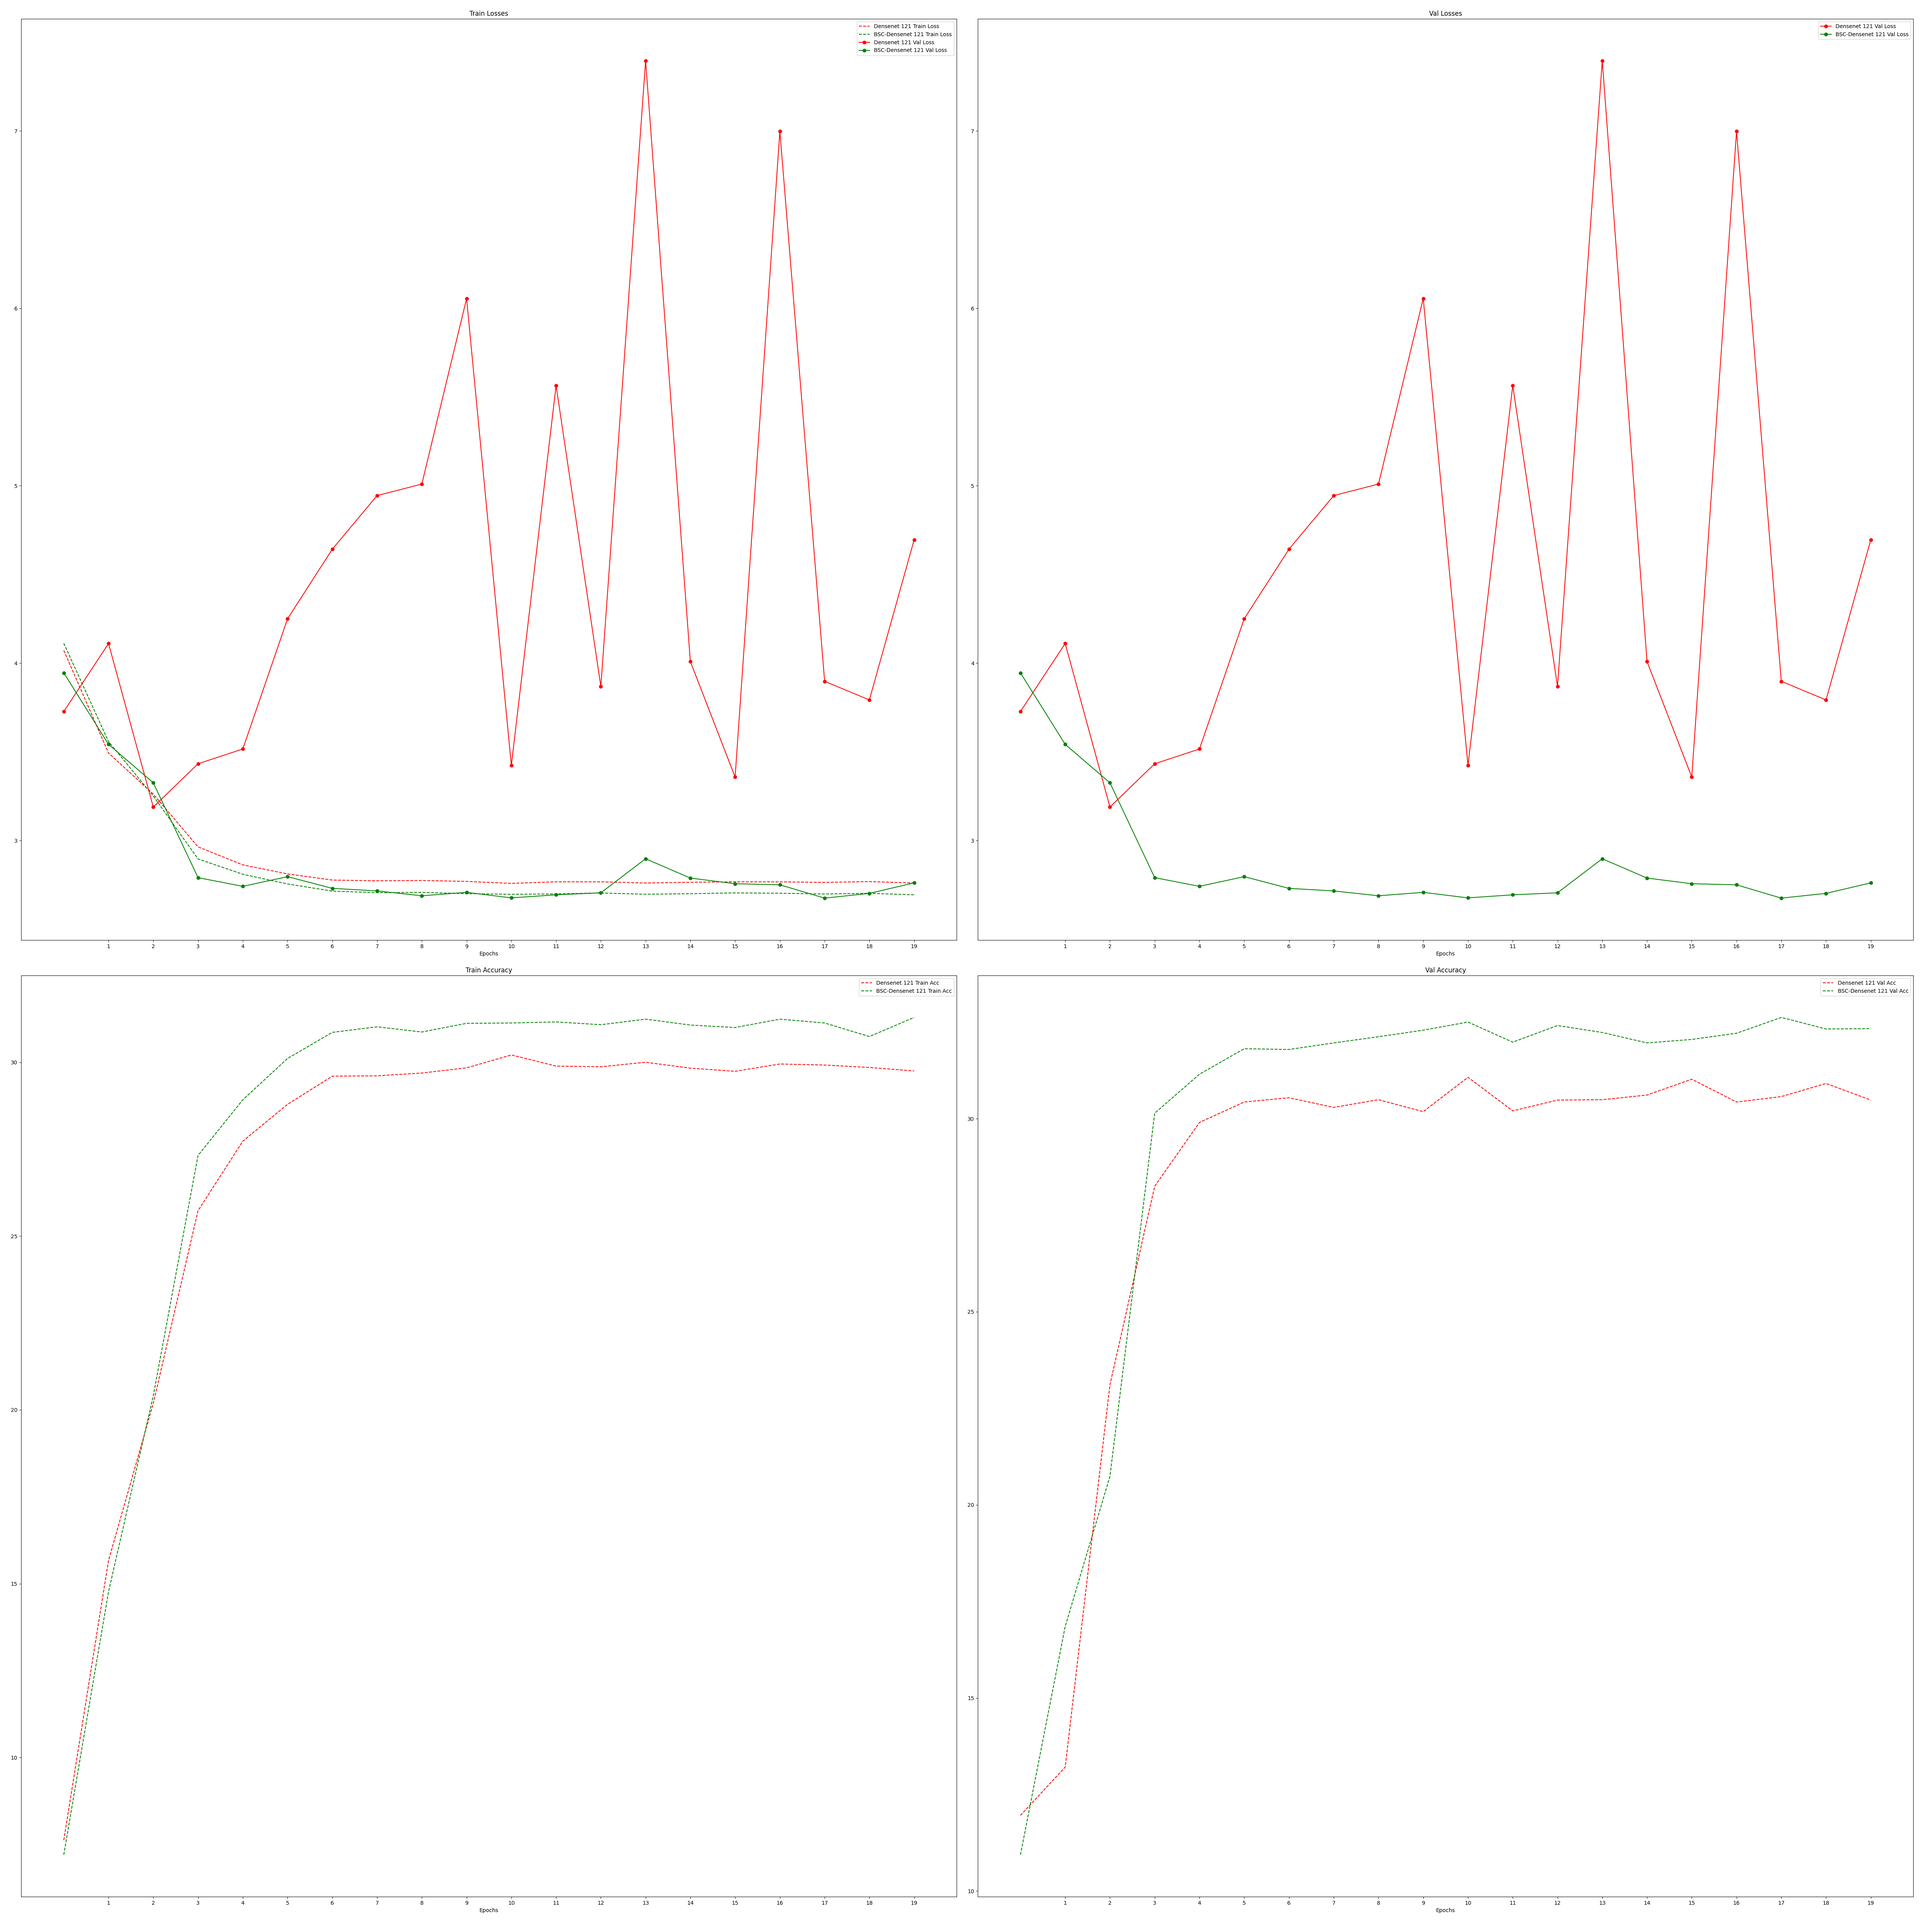
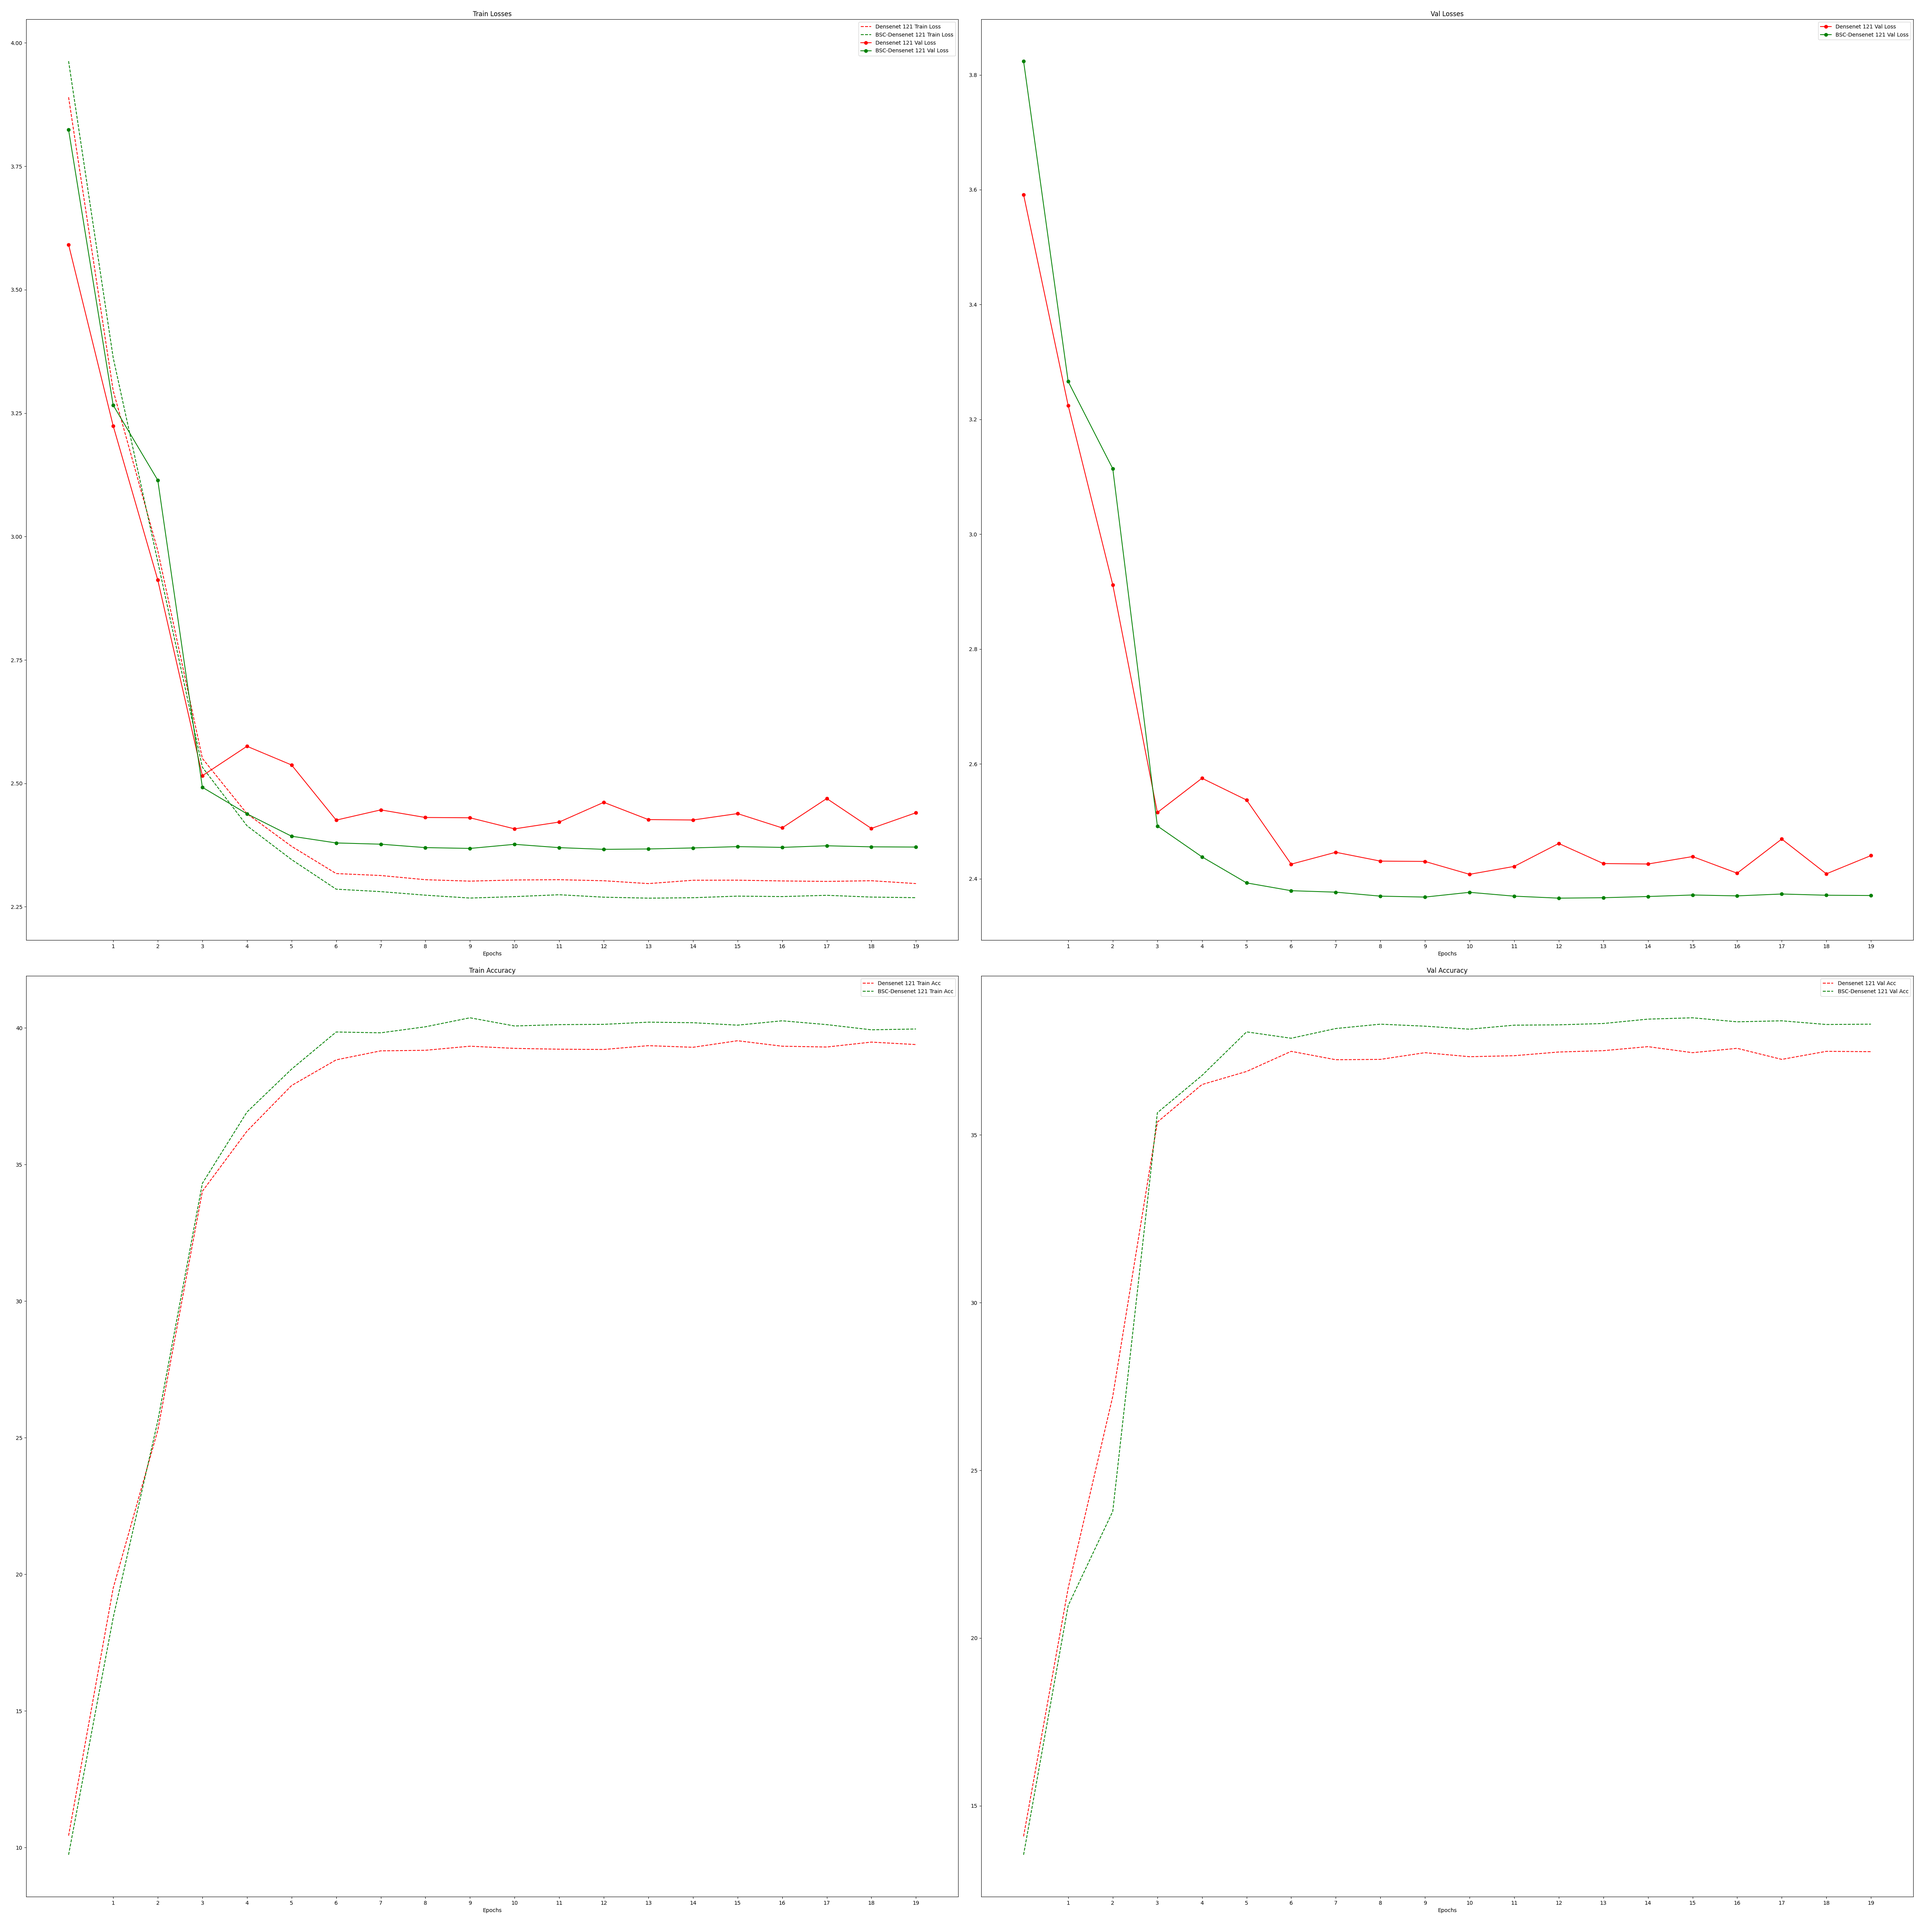
Add files via upload

Changed region(s): [[0.4368, 0.0, 0.4992, 0.0312], [0.468, 0.4992, 0.4992, 0.5304]]

diff --git a/dataloader.py b/dataloader.py
@@ -6,7 +6,8 @@ import cv2
 import random
 
 class CIFAR100_Dataset(Dataset):
-    def __init__(self, transform=None, mode="train"):
+    def __init__(self, transform=None, device="cpu", mode="train"):
+        self.device = device
         if mode=="train":
             data = torchvision.datasets.CIFAR100(download=True,root="./dataset/train",train=True)
         else:
@@ -15,7 +16,7 @@ class CIFAR100_Dataset(Dataset):
         random.shuffle(self.data)
         self.transform = transform
         print("Data Loading: Total images in mode: ",mode," : " ,len(self.data))
-
+        
     def __len__(self):
         return len(self.data)
 
@@ -24,4 +25,4 @@ class CIFAR100_Dataset(Dataset):
         label_idx = self.data[idx][1]
         if self.transform:
             image = self.transform(image=image)["image"]
-        return image, torch.tensor(label_idx, dtype=torch.long)
+        return image.to(self.device), torch.tensor(label_idx, dtype=torch.long).to(self.device)

diff --git a/README.md b/README.md
@@ -33,11 +33,11 @@ Kumar, Ravin, Adding Binary Search Connections to Improve DenseNet Performance (
 #### Comparing Densenet-121 and BSC-Densenet-121 on CIFAR 100 Dataset
 - Trainable Paramaters in `Densenet-121`: `7,056,356`
 - Trainable Paramaters in `BSC-Densenet-121`: `7,574,756`
-- `Densenet-121` accuracy on test set: `30.48`
-- `BSC-Densenet-121` accuracy on test set: `32.33`
+- `Densenet-121` accuracy on test set: `37.49`
+- `BSC-Densenet-121` accuracy on test set: `38.29`
 
 ```python
-python3 run.py
+python3 run.py --device cuda
 ```
 Overall Analysis is stored in visual graphs inside `overall_analysis.png`.
 ![image](https://github.com/mr-ravin/BSC-DenseNet/blob/main/overall_analysis.png?raw=true)
